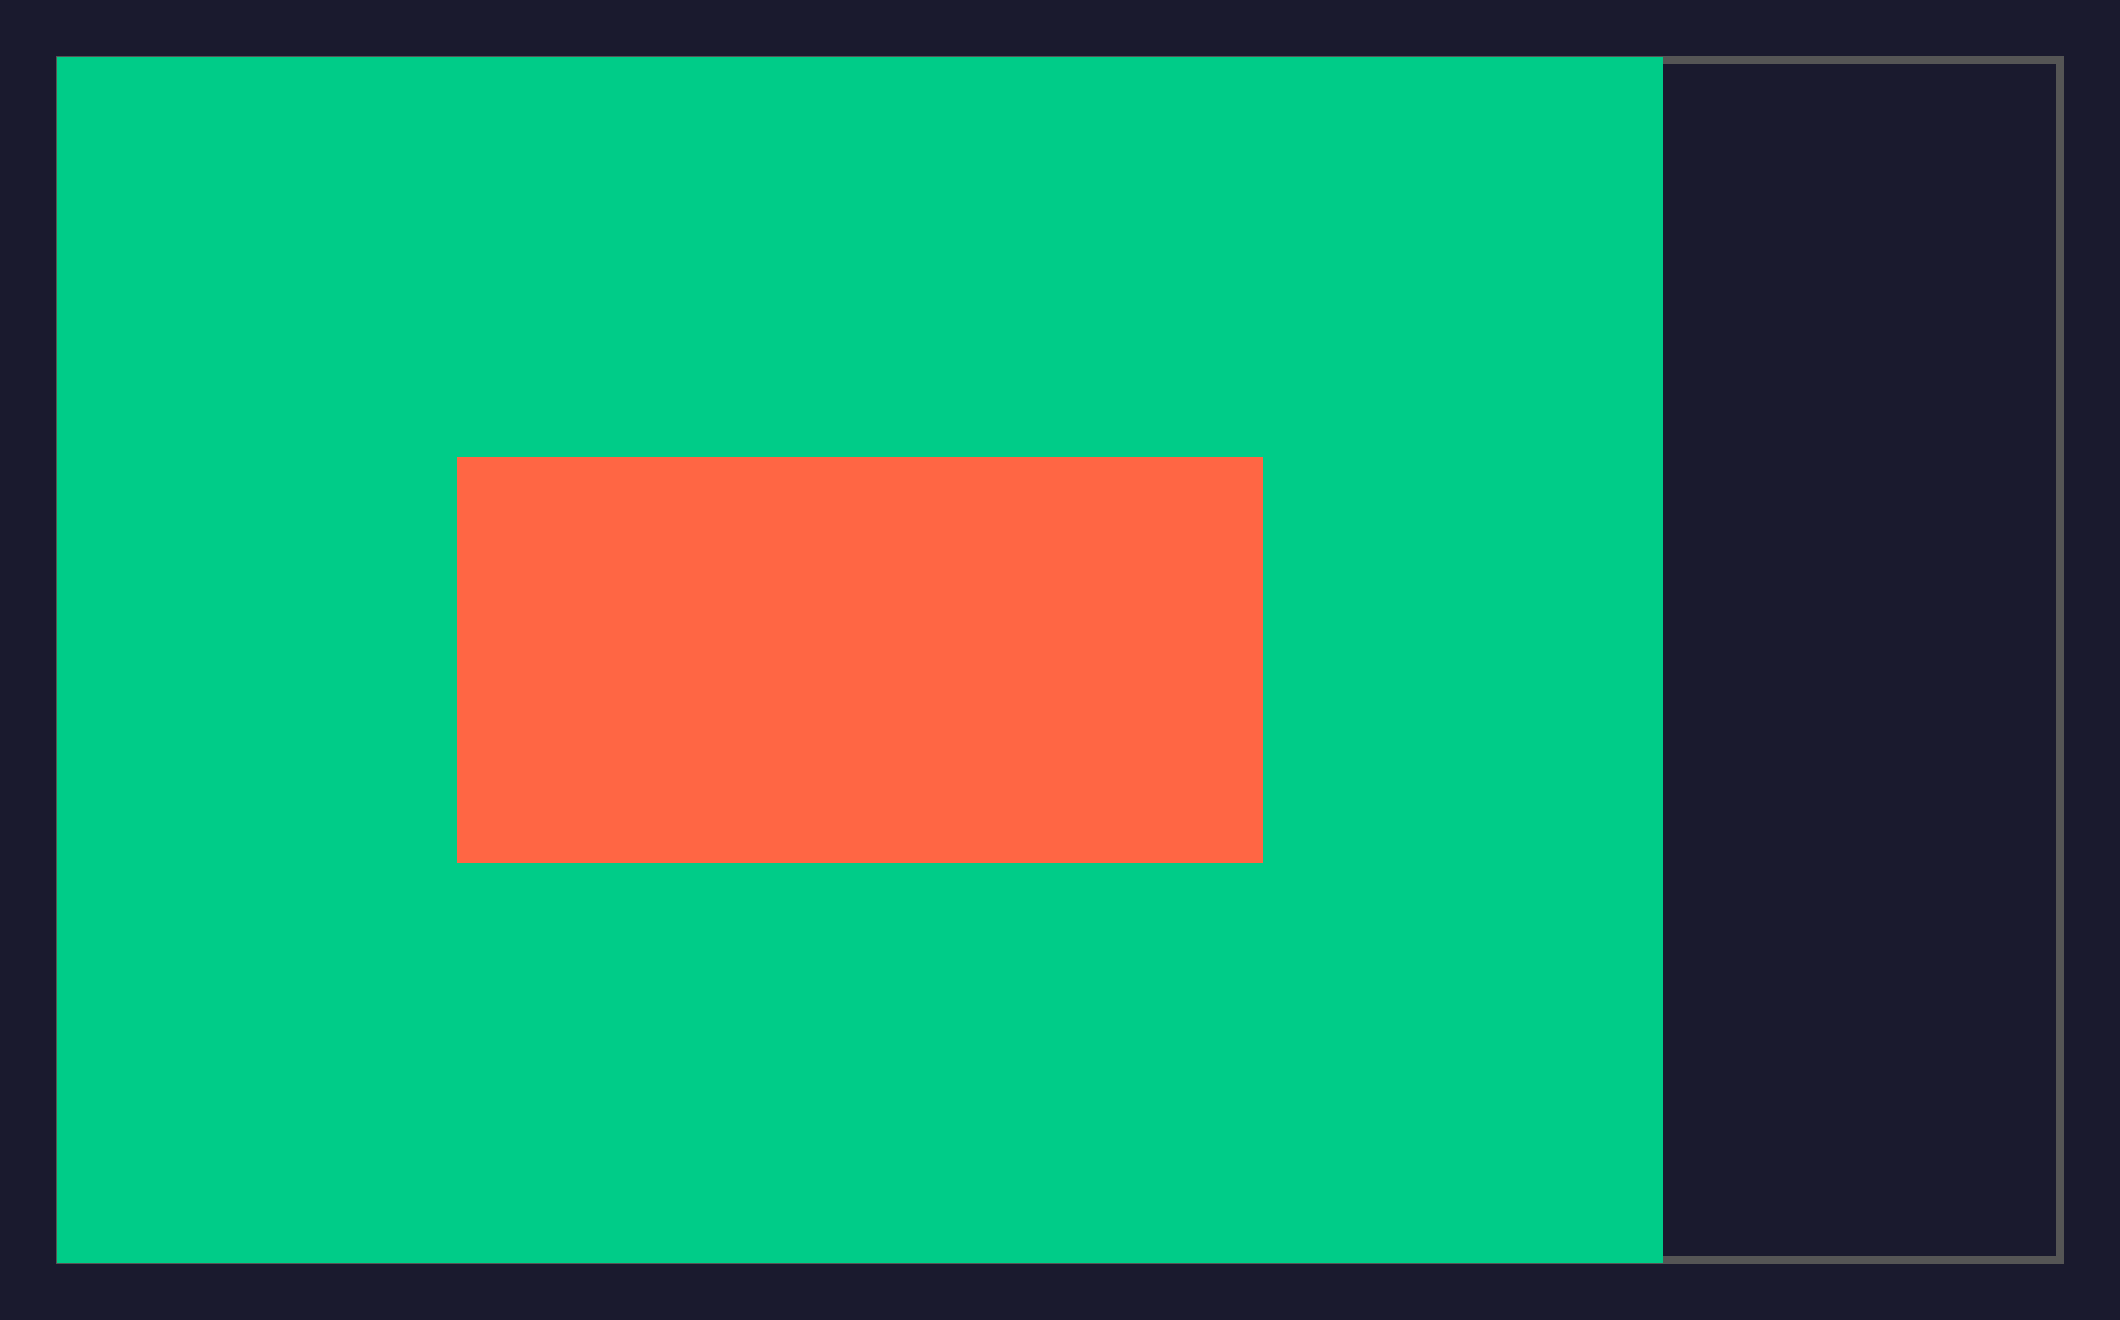
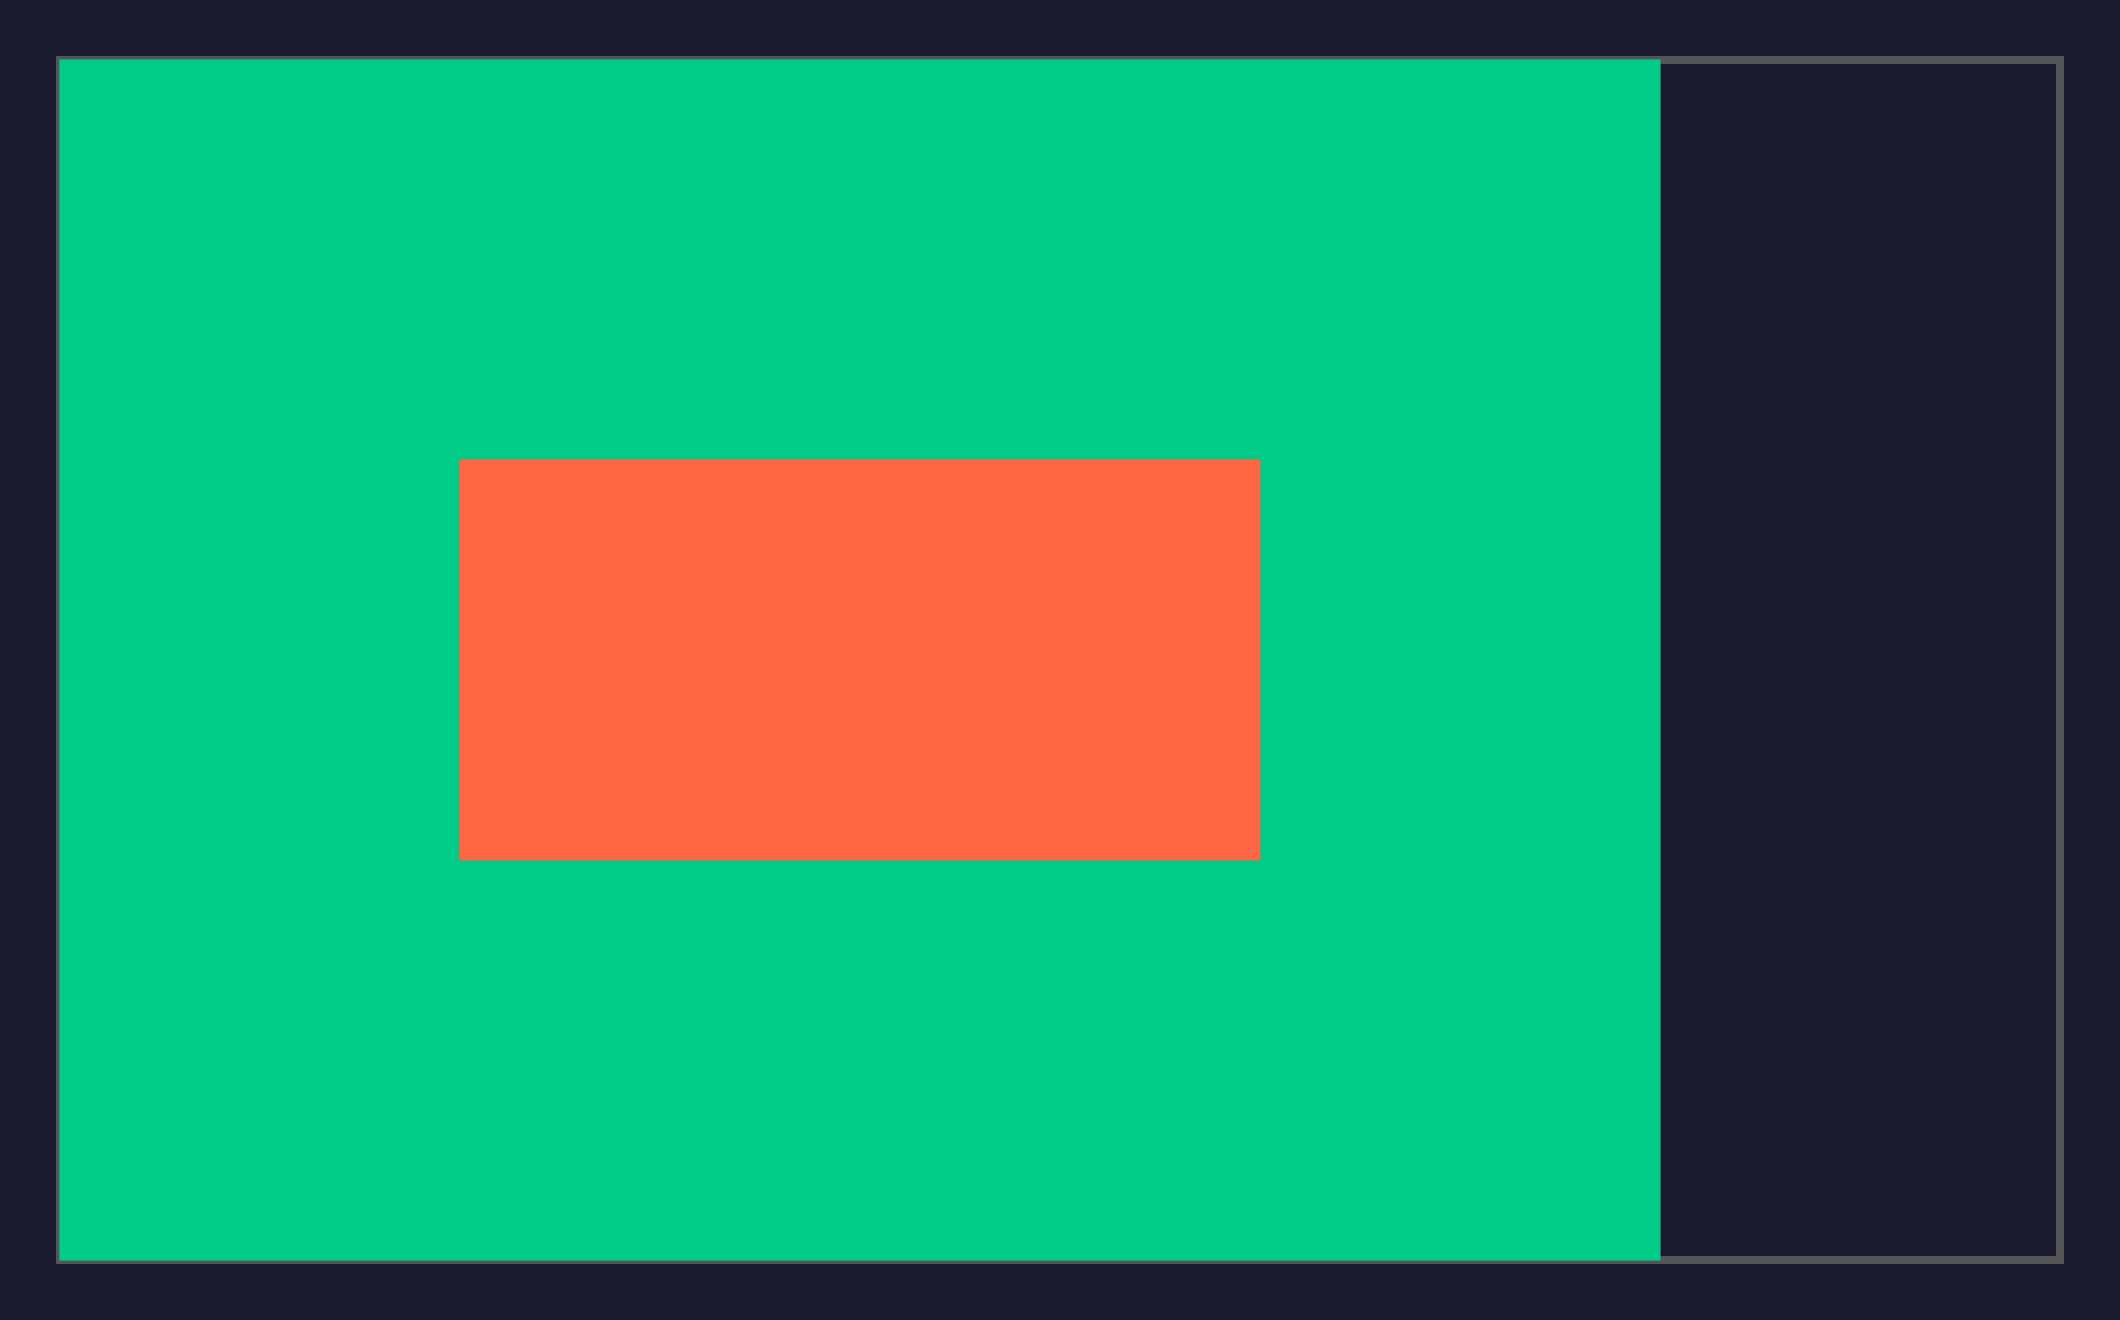
Release v0.9.4: packingsolver 0b2b69ef3, fixed items in periodic packing
Pin packingsolver 0b2b69ef3 (master, 2026-10-18). No API change: the
irregular CLI, instance JSON and certificate are untouched, so no wrapper
code moves.

tree_search_periodic_packing now honours fixed items (#720, fixed by
#721): each pin is cut out of the free space as its bounding box inflated
by the item-item spacing, counts against its type's copies and is written
to the solution. On the #720 instance 0.9.3 dropped the pin and overlapped
it by 3707 mm2; 0.9.4 keeps it with no overlap, spacing 3 held.

Shape 0944ac20 -> 9e216ba5 (9 commits): extend_left updates trapezoid
widths and area, Shape::check rejects disconnected consecutive elements.

CI: actions bumped; setup-uv pinned to v10.3.0 (no floating major tag
past v7). Test renders use a 0.3 mm stroke so the spacing stays visible.

diff --git a/test/test_nesting.py b/test/test_nesting.py
@@ -75,8 +75,9 @@ def _render_png(sol: Solution, inst: Instance, colors: list[str], path: Path):
     for item in sol.bins[0].items:
         c = colors[item.item_type_id % len(colors)]
         for poly in item.shapes:
+            # Width is in mm: half sits outside the shape, so a wide stroke hides the item spacing.
             elems.append(f'<path d="{_poly_d(poly)}" fill="{c}70" stroke="{c}" '
-                         f'stroke-width="1.5" fill-rule="evenodd"/>')
+                         f'stroke-width="0.3" fill-rule="evenodd"/>')
 
     svg = (f'<svg xmlns="http://www.w3.org/2000/svg" viewBox="0 0 {vw:.1f} {vh:.1f}" '
            f'width="{int(vw * 4)}" height="{int(vh * 4)}">{"".join(elems)}</svg>')

diff --git a/python/pyckingsolver/__init__.py b/python/pyckingsolver/__init__.py
@@ -28,7 +28,7 @@ from pyckingsolver.types import (
     SolutionItem,
 )
 
-__version__ = "0.9.3"
+__version__ = "0.9.4"
 
 __all__ = [
     "__version__",

diff --git a/README.md b/README.md
@@ -29,18 +29,23 @@ The C++ solver binary is **bundled** — no compilation needed on Windows x64 an
 
 ---
 
-## What's New in 0.9.3
+## What's New in 0.9.4
 
-- **C++ pin moves to packingsolver `a5ddea695` (master, 2026-10-17).** No API change: the
+- **C++ pin moves to packingsolver `0b2b69ef3` (master, 2026-10-18).** No API change: the
   irregular CLI, instance JSON and certificate are untouched, so no wrapper code moves.
-- **Shape robustness update** (shape `04409204` -> `0944ac20`, 57 commits), all in geometry the
-  irregular solver runs on every instance: boolean operations with full circles and with identical
-  elements going opposite ways, inflation of shapes with circular holes (what
-  `item_item_minimum_spacing` builds), trapezoidation of shapes split by touching holes, exact
-  angle comparisons in convex hulls and no-fit polygons, and simplification kept within its
-  tolerance. Layouts can differ from 0.9.2.
-- The other upstream commits (reductions and tree search guides for box, boxstacks, rectangle and
-  rectangleguillotine) do not touch irregular.
+- **Fixed items are honoured by periodic packing** (fontanf/packingsolver#720, fixed by #721).
+  Auto-selection runs `tree_search_periodic_packing` on a single bin once item types with more
+  than 16 copies cover 80% of the bin or of the item area, and that algorithm ignored fixed items:
+  they were missing from the solution and other items were placed on them. It now cuts each fixed
+  item out of the free space as its bounding box inflated by the item-item spacing, counts it
+  against its type's copies and returns it in the solution. On the #720 instance (one pinned
+  pentagon, 30 copies of a small one) 0.9.3 dropped the pin and overlapped it by 3707 mm2 (3002
+  with spacing 3); 0.9.4 keeps it with no overlap and the spacing held. The bounding box is
+  coarse around large or irregular pins, so `use_tree_search=True` can still pack tighter there.
+- **Shape update** (shape `0944ac20` -> `9e216ba5`, 9 commits): `GeneralizedTrapezoid::extend_left`
+  now updates the trapezoid's widths and area, and `Shape::check` rejects shapes whose consecutive
+  elements are not connected. A `Circle` basic shape and the power-of-two helper fix do not reach
+  the wrapper's instances (arcs are discretized; bins are larger than 1).
 
 Older release notes: [CHANGELOG.md](CHANGELOG.md).
 

diff --git a/AGENTS.md b/AGENTS.md
@@ -1,8 +1,8 @@
 # pyckingsolver — Agent Knowledge
 
 Python wrapper for [fontanf/packingsolver](https://github.com/fontanf/packingsolver) irregular (2D nesting) module.  
-C++ submodule pinned at `extern/packingsolver` (commit `a5ddea695`, 2026-10-17).
-Python wrapper version: `0.9.3` (see `## v0.2.0 Breaking Changes` below).
+C++ submodule pinned at `extern/packingsolver` (commit `0b2b69ef3`, 2026-10-18).
+Python wrapper version: `0.9.4` (see `## v0.2.0 Breaking Changes` below).
 
 ---
 
@@ -100,6 +100,21 @@ the periodic-packing thresholds. Wrap them only once `instance_builder.cpp::read
   shipped or wrapped. `Objective.BIN_PACKING_CUTTING_COST` belongs to `rectangleguillotine`;
   irregular accepts the string and exits 0 with `bins: null`, so it is deliberately absent
   from the wrapper's `Objective`.
+
+---
+
+## MARK: Recent Upstream Changes (2026-10-17 → 2026-10-18)
+
+Pulled `a5ddea695` → `0b2b69ef3` (3 commits). No irregular CLI, instance key or output change.
+Bundled binary rebuilt + re-bundled.
+
+| Commit | Change | Impact |
+|---|---|---|
+| `0b2b69ef` (#721, fixes #720) | **Fixed items in `tree_search_periodic_packing`**: each fixed item is cut out of the root's free space as its AABB inflated by the item-item spacing, consumes a copy of its type, and is written to the solution | Auto-selection picks periodic packing for a single bin once >16-copy types cover 80% of the bin or of the item area, with or without fixed items. Before, pins vanished from the certificate and items landed on them (#720 instance: 3707 mm2 on the pin). Now kept with no overlap, spacing 3 held. AABB approximation: `use_tree_search=True` can still pack tighter around big irregular pins. |
+| `2e2448f8` (shape `0944ac20` → `9e216ba5`, 9 commits) | `GeneralizedTrapezoid::extend_left` updates widths and area; `Shape::check` rejects disconnected consecutive elements; `Circle` basic shape; docs | Trapezoids are irregular's own path, so layouts can move. The check could reject a malformed input shape that passed before. `Circle` is unused (the wrapper discretizes arcs). |
+| `4efc8281` | Power-of-two helpers return exact powers | `scale_value` uses `smallest_power_of_two_greater_or_equal(value_max)`, wrong only below 1; bins are larger. None. |
+
+**Wrapper impact**: none. No CLI flag, instance key or output change.
 
 ---
 

diff --git a/CHANGELOG.md b/CHANGELOG.md
@@ -2,6 +2,19 @@
 
 Older release notes, moved out of the README. The current release's notes stay there.
 
+## 0.9.3
+
+- **C++ pin moves to packingsolver `a5ddea695` (master, 2026-10-17).** No API change: the
+  irregular CLI, instance JSON and certificate are untouched, so no wrapper code moves.
+- **Shape robustness update** (shape `04409204` -> `0944ac20`, 57 commits), all in geometry the
+  irregular solver runs on every instance: boolean operations with full circles and with identical
+  elements going opposite ways, inflation of shapes with circular holes (what
+  `item_item_minimum_spacing` builds), trapezoidation of shapes split by touching holes, exact
+  angle comparisons in convex hulls and no-fit polygons, and simplification kept within its
+  tolerance. Layouts can differ from 0.9.2.
+- The other upstream commits (reductions and tree search guides for box, boxstacks, rectangle and
+  rectangleguillotine) do not touch irregular.
+
 ## 0.9.2
 
 - **C++ pin moves to packingsolver `79b67f8f9` (master, 2026-10-12).** No API change: the
